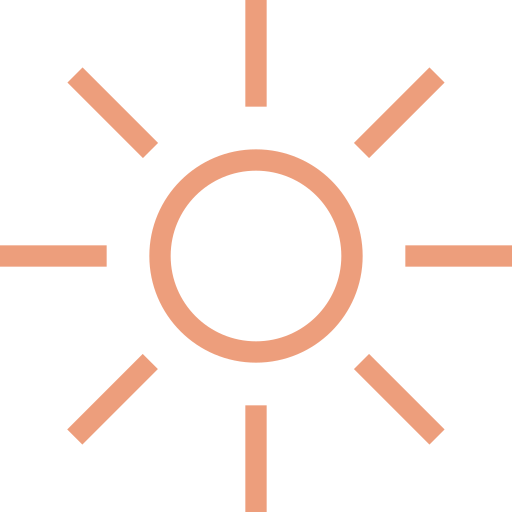
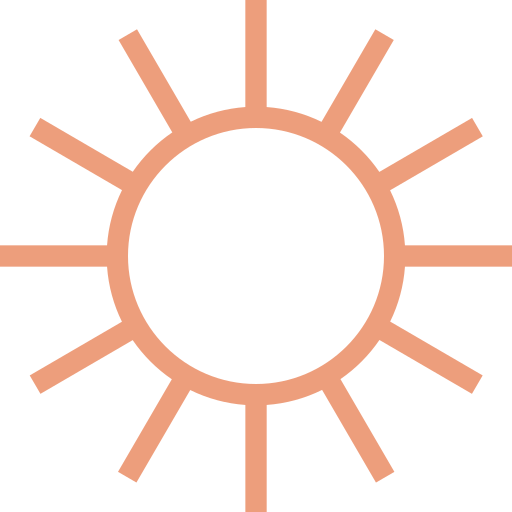
Agrega README.md y cambio iconos

Changed region(s): [[0.0625, 0.0625, 0.9375, 0.9375]]

diff --git a/README.md b/README.md
@@ -1,0 +1,50 @@
+Proyecto : Dashboard
+# **Dashboard del Clima**
+
+## **Descripción:**
+El proyecto consiste en crear una página web que contenga un dashboard (tablero de datos), en donde se puedan visualizar diferentes datos recogidos desde una API, y que se muestren de manera visual a través de diferentes gráficos. En este caso, se eligió crear una página que muestre información sobre el clima.
+
+Para el desarrollo del proyecto, lo primero que se hizo fue un prototipo visual de la página web.
+
+![Imagen del prototipo de diseño de la página](./assets/img/readme-img/design.png)
+
+En la página se muestra una pequeña descripción de bienvenida para luego pasar a mostrar los datos. 
+
+En el lado izquierdo se muestra una select con diferentes ciudades para escoger y una card que muestra los datos de esa ciudad (nombre, icono, temperatura, estado y humedad).
+
+Al lado de esto, inicialmente se muestra un selector de fechas de hasta un máximo de 90 días y un botón que genera un gráfico con el rango especificado, en donde se muestran datos históricos del clima de Santiago (temperatura promedio, sensación térmica, temperatura máxima y mínima).
+
+![Screenshot landing page versión desktop](./assets/img/readme-img/desk-ver.png)
+
+## **Features:**
+Para el desarrollo del proyecto se utilizaron diferentes tecnologías, tales como:
+- Aplicación Figma: Para el desarrollo del diseño inicial de la página web.
+- Bootstrap: Incorporación de variados componentes del framework para agilizar el desarrollo del prototipo.
+- Fontawesome: Para la incorporación de diferentes íconos.
+- Node.js: Para la creación de un entorno de desarrollo.
+- Chart.js: Incorporación de gráficos.
+***
+#### **API:**
+En este proyecto, se utilizaron 2 API para obtener diferentes datos sobre el clima:
+1. API de GAEL (https://api.gael.cloud/?shell#publica): Para datos del clima del día en diferentes ciudades en Chile.
+2. Open-Meteo (https://open-meteo.com/): Para datos históricos sobre el clima en Santiago.
+
+#### **Javascript:**
+Se utilizan 4 funciones principales para el funcionamiento del proyecto:
+1. Función Datos Actuales: Aquí se toman los datos del clima del día para luego pasarlos a una card.
+2. Función Gráfico: Toma los datos históricos del clima de un determinado rango de fechas y los muestra en un gráfico.
+3. Función Actualizar: Renueva el gráfico creado de acuerdo a un nuevo rango de fechas entregado.
+4. Función Cambio: Escucha cuando se produce un cambio en la ciudad seleccionada y muestra los nuevos datos.
+
+## **Objetivos:**
+El proyecto se enfoca en la creación de un dashboard con los siguientes objetivos:
+1. Uso de Node.js. <br>
+2. Aplicar modularización (import y export). <br>
+3. Consumo de API. <br>
+4. Aplicar procesos asincrónicos. <br>
+5. Uso de Chart.js
+
+## **Demo:**
+A continuación, se presenta un enlace a la demo del proyecto.
+
+https://ferramirez99.github.io/Proyecto3/
